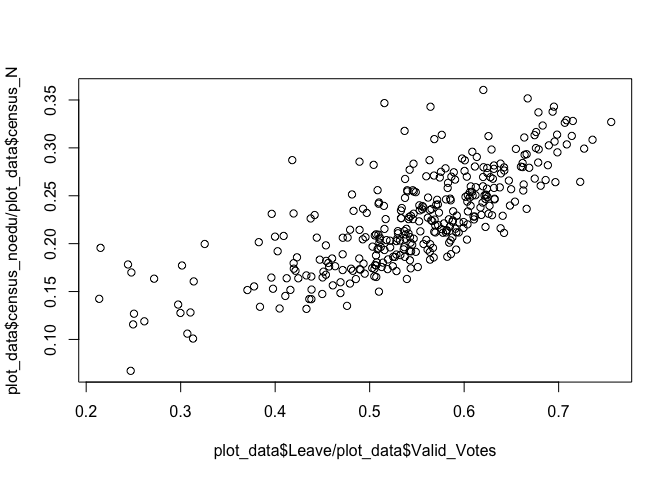
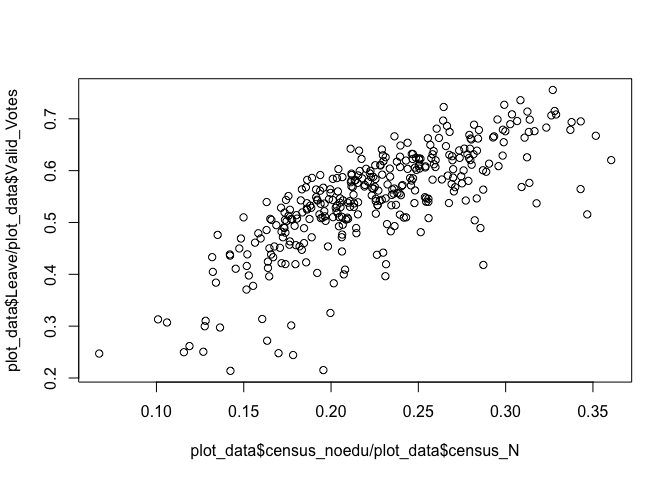
Up to geom_smooth

diff --git a/main.md b/main.md
@@ -1,13 +1,12 @@
-``` r
-knitr::opts_chunk$set(echo=TRUE, warning=FALSE, message=FALSE)
-```
-
 Goal
 ====
 
 The goal of this document is to walk you through the steps needed to replicate the style of this plot that appeared on a [blog post](https://www.ft.com/content/1ce1a720-ce94-3c32-a689-8d2356388a1f) by John Burn-Murdoch using R and ggplot.
 
 ![FT.com boxplot](https://raw.githubusercontent.com/fraba/ggplot_ws_replicate_ft_plot/master/figures/fig1.png "Burn-Murdoch's plot")
+
+Getting the data
+================
 
 Since I couldn't find data on export from regions to the EU, I use instead the 2011 cesus data for qualification.
 
@@ -35,8 +34,70 @@ plot_data$census_noedu <- as.numeric(plot_data$census_noedu)
 plot_data$census_N <- as.numeric(plot_data$census_N)
 ```
 
+Exploring the correlation between the two variables
+===================================================
+
 ``` r
-plot(plot_data$Leave / plot_data$Valid_Votes, plot_data$census_noedu / plot_data$census_N)
+plot(plot_data$census_noedu / plot_data$census_N, plot_data$Leave / plot_data$Valid_Votes)
 ```
 
 ![Exploratory plot](main_files/figure-markdown_github/exploratory-plot-1.png)
+
+ggplot: geom\_point()
+=====================
+
+Base plot
+---------
+
+``` r
+require(ggplot2)
+
+ggplot() +
+  geom_point(
+    data = plot_data, 
+    aes(x=census_noedu/census_N, y=Leave/Valid_Votes)
+             )
+```
+
+![](main_files/figure-markdown_github/geom-point-1.png)
+
+Map area's census population to point size
+------------------------------------------
+
+``` r
+require(ggplot2)
+
+ggplot() +
+  geom_point(
+    data = plot_data, 
+    aes(x=census_noedu/census_N, y=Leave/Valid_Votes), 
+    size=5
+    )
+```
+
+![](main_files/figure-markdown_github/geom-point-wt-size-1-1.png)
+
+``` r
+require(ggplot2)
+
+ggplot() +
+  geom_point(
+    data = plot_data, 
+    aes(x=census_noedu/census_N, y=Leave/Valid_Votes, size=sqrt(census_N))
+    )
+```
+
+![](main_files/figure-markdown_github/geom-point-wt-size-2-1.png)
+
+``` r
+require(ggplot2)
+
+ggplot() +
+  geom_point(
+    data = plot_data, 
+    aes(x=census_noedu/census_N, y=Leave/Valid_Votes, size=sqrt(census_N)),
+    colour = 'red', alpha = 0.5
+    )
+```
+
+![](main_files/figure-markdown_github/geom-point-wt-size-3-1.png)
